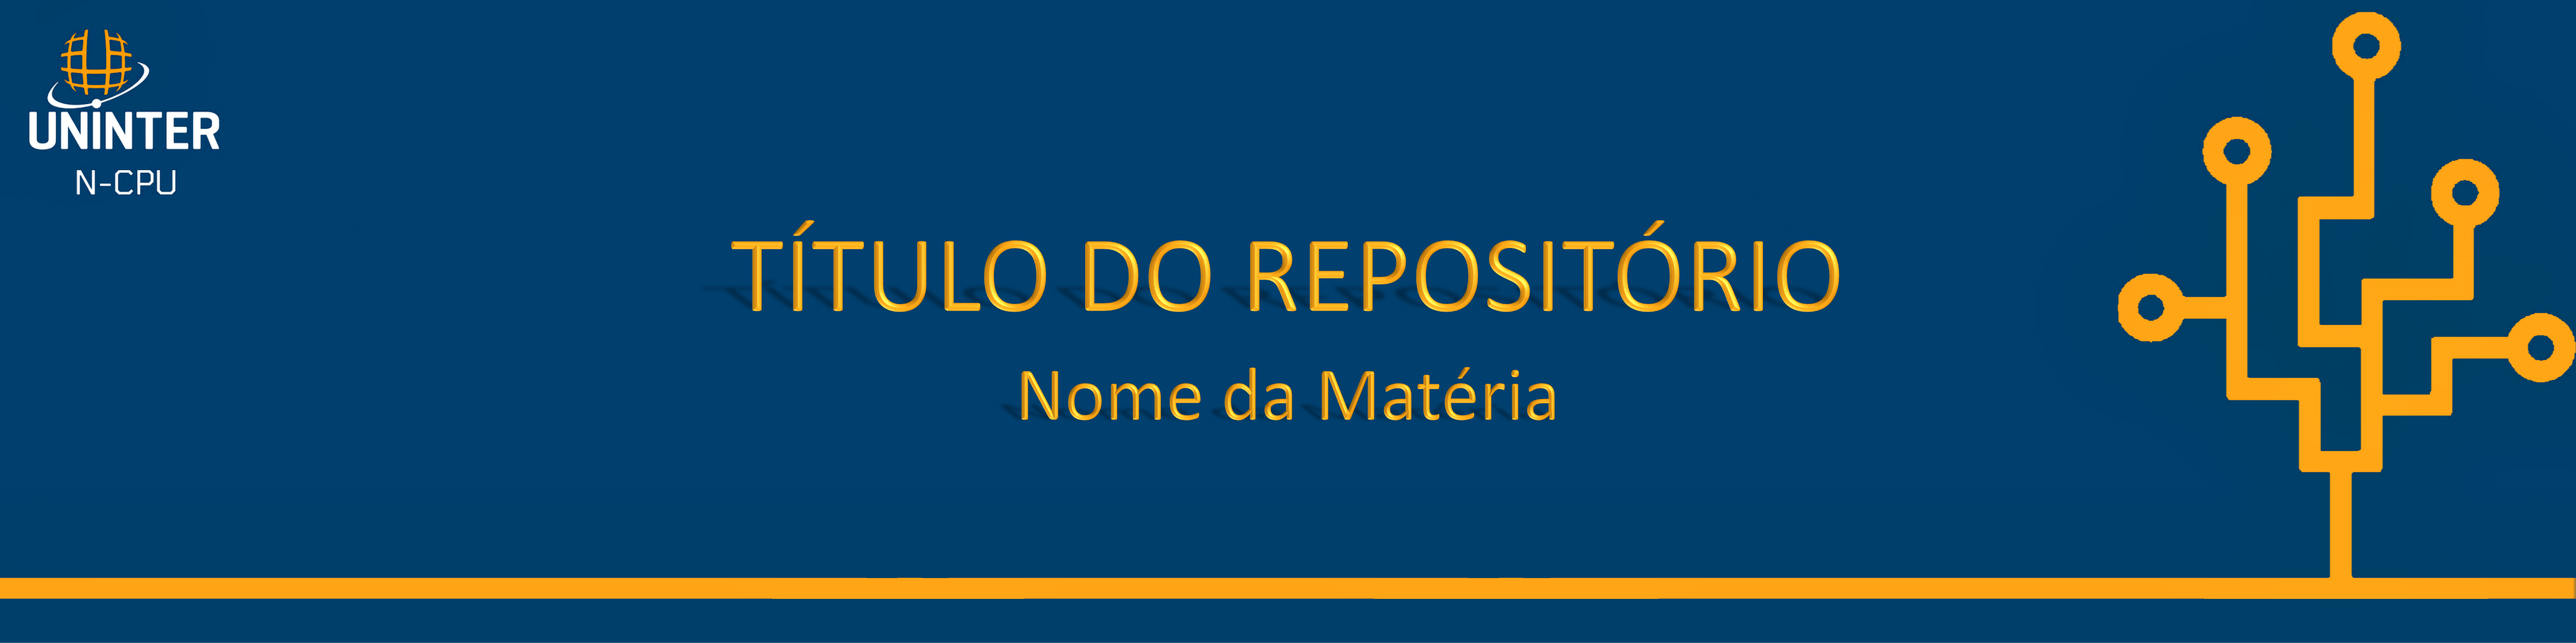
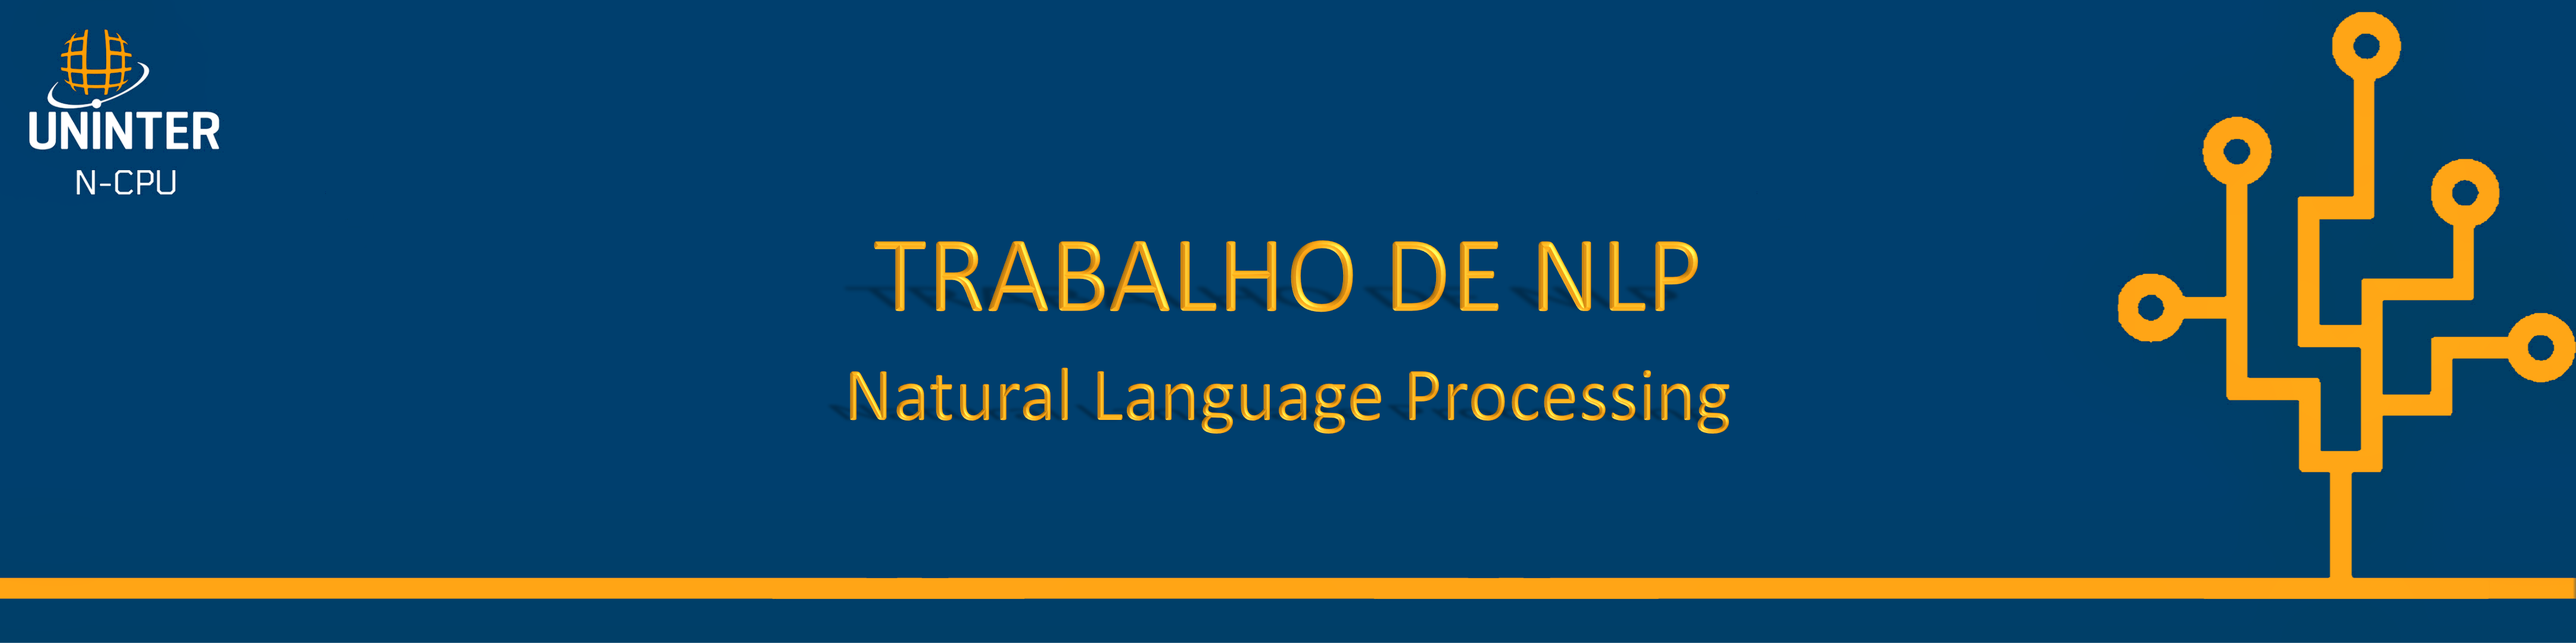
add gitmodule Fake.br-Corpus

Changed region(s): [[0.2809, 0.3663, 0.7179, 0.4884], [0.3121, 0.58, 0.6867, 0.6716]]

diff --git a/README.md b/README.md
@@ -1,5 +1,5 @@
 <!-- Área do Banner -->
-<div align="center" style="background-color: white; max-width: 70%;">
+<div align="center" style="background-color: white; max-width: 100%;">
   <img alt="BANNER com título: NLP" title="Banner" src=".readme_docs/Banner_Github_NCPU.png" width="100%" />
 </div>
 
@@ -26,39 +26,41 @@
 <!-- Descrição do repositório e demais dados -->
 ## Descrição
 
-Este repositório contém os arquivos de modelo para criação de repositórios padronizados N-CPU.
+Este repositório contém alguns arquivos para auxílio na realização do trabalho prático da matéria de NLP.
 
-Este modelo faz parte do N-CPU.
+Aqui você encontrará o arquivo dos dados e metadados em txt (`Fake.br-Corpus/full_texts/` e/ou `Fake.br-Corpus/size_normalized_texts/`), em csv (`Fake.br-Corpus/preprocessed/pre-processed.csv`) e um notebook python com os códigos necessário para realização do trabalho pelo Google Colab.
 
 ## Participantes
 
 | [<img src="https://avatars3.githubusercontent.com/u/60905310?s=460&v=4" width="75px;"/>](https://github.com/guipatriota) |
 | :------------------------------------------------------------------------------------------------------------------------: |
 
-
 | [Prof. Guilherme Patriota](https://github.com/guipatriota)
+
 
 ## Como usar este repositório
 
-Ao criar um novo repositório, selecione este repositório como modelo.
+### Método 1: Link direto para Google Colab com os arquivos deste repositório
 
-### Banner do arquivo README.md
+1. Você pode diretamente abrir no Colab este repositório pelo link clicando <h1 align="center">[aqui](https://colab.research.google.com/github/N-CPUninter/NLP/blob/main/trabalho_nlp.ipynb).</h1>
+2. Lembre-se de salvar uma cópia em seu Google Drive deste arquivo antes de começar, para que seu trabalho seja salvo automaticamente e você não corra o risco de perder alguma coisa já feita.
 
-Utilize o arquivo Banner_Github_NCPU.pptx da pasta `.readme_docs` para criar seu arquivo `.readme_docs/Banner_Github_NCPU.png`. Coloque o título do seu repositório como título e o nome de sua matéria como subtítulo do banner.
+### Método 2: Abrir repositório github pelo Google Colab
 
-Após alterar os dados, clique em Arquivo -> Exportar -> Alterar o tipo de arquivo -> Duplo clique em PNG.  Salve com o mesmo nome e extenção png (`Banner_Github_NCPU.png`).
+1. Abra o seu [Google Colab](https://colab.research.google.com/);
+2. Na janela de abertura de arquivo, clique em GitHub;
+3. Na barra de busca, substitua seu nome de usuário por `https://github.com/N-CPUninter/NLP` e clique em pesquisar (ícone de lupa);
+4. Clique sobre `trabalho_nlp.ipynb`;
+5. Rode o notebook no Google Colab para se certificar de que tudo está rodando corretamente e sem falhas;
+6. Altere os códigos nas partes da Questão 1 e 2 para realização do trabalho.
 
-Coloque o arquivo PNG na pasta `.readme_docs/` do seu repositório e exclua o arquivo `Banner_Github_NCPU.pptx`.
+### Método 3: Download e upload manual do arquivo .ipynb
 
-### Dados do arquivo REAMD.md
-```diff
-- Lembre-se de alterar os dados deste arquivo para condfizerem com os seus dados e de sua matéria/repositório!
-
-
-+ Mantenha os tópicos "Contribuições" e "Licença" ao final de seu arquivo README.md.
-```
-
-## Comandos de utilização
+1. Faça download do arquivo `trabalho_nlp.ipynb`;
+2. Abra o [Google Colab](https://colab.research.google.com/);
+3. Faça o upload do arquivo do trabalho para seu [Google Colab](https://colab.research.google.com/), na janela de abertura de arquivo;
+4. Rode o notebook no Google Colab para se certificar de que tudo está rodando corretamente e sem falhas;
+5. Altere os códigos nas partes da Questão 1 e 2 para realização do trabalho.
 
 ## Contribuições
 
